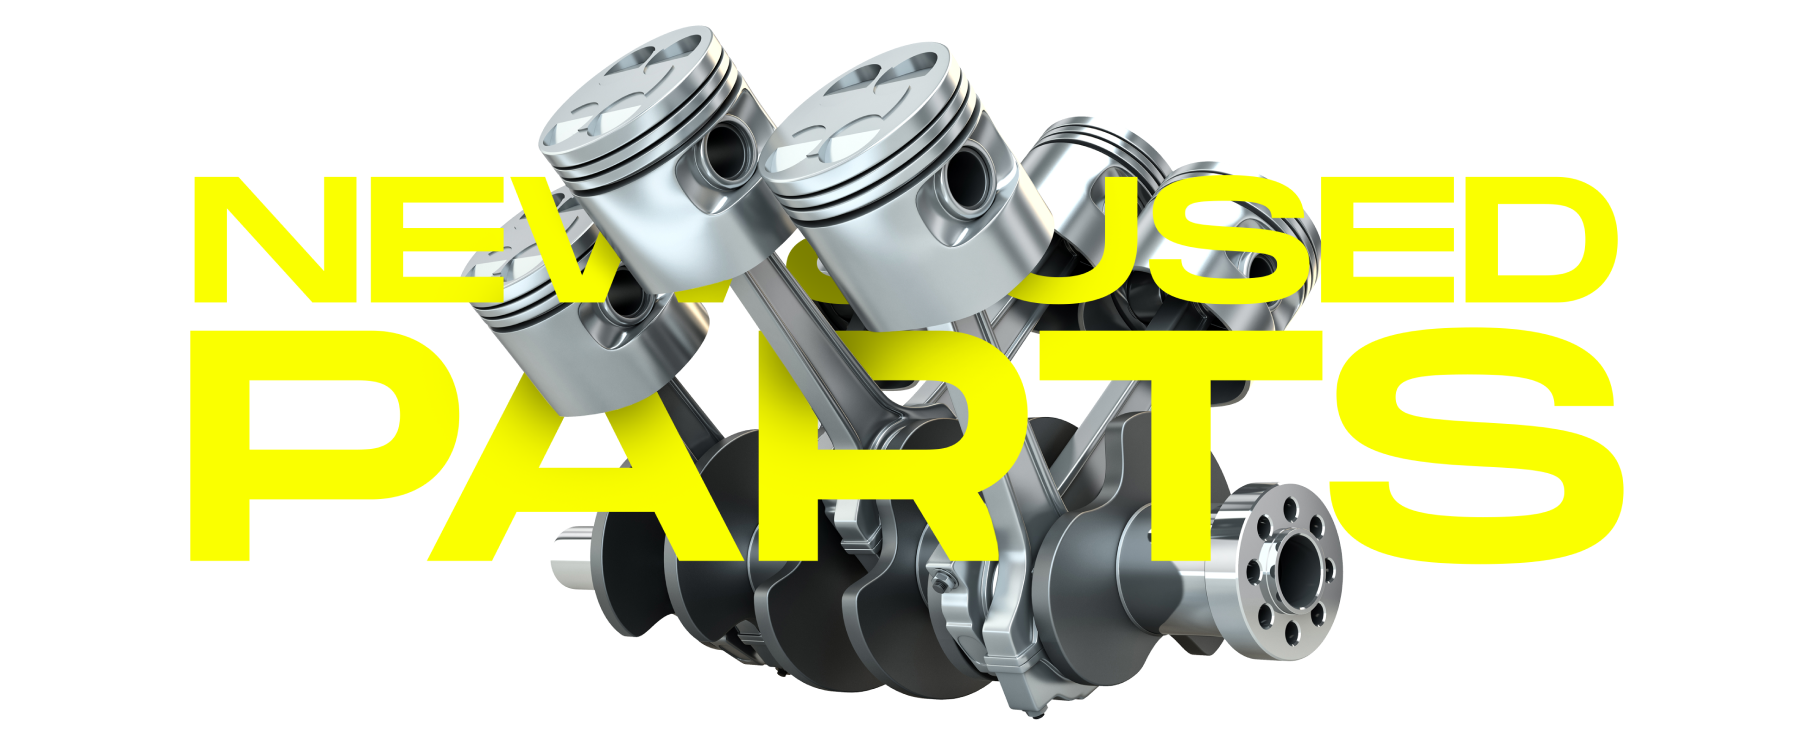
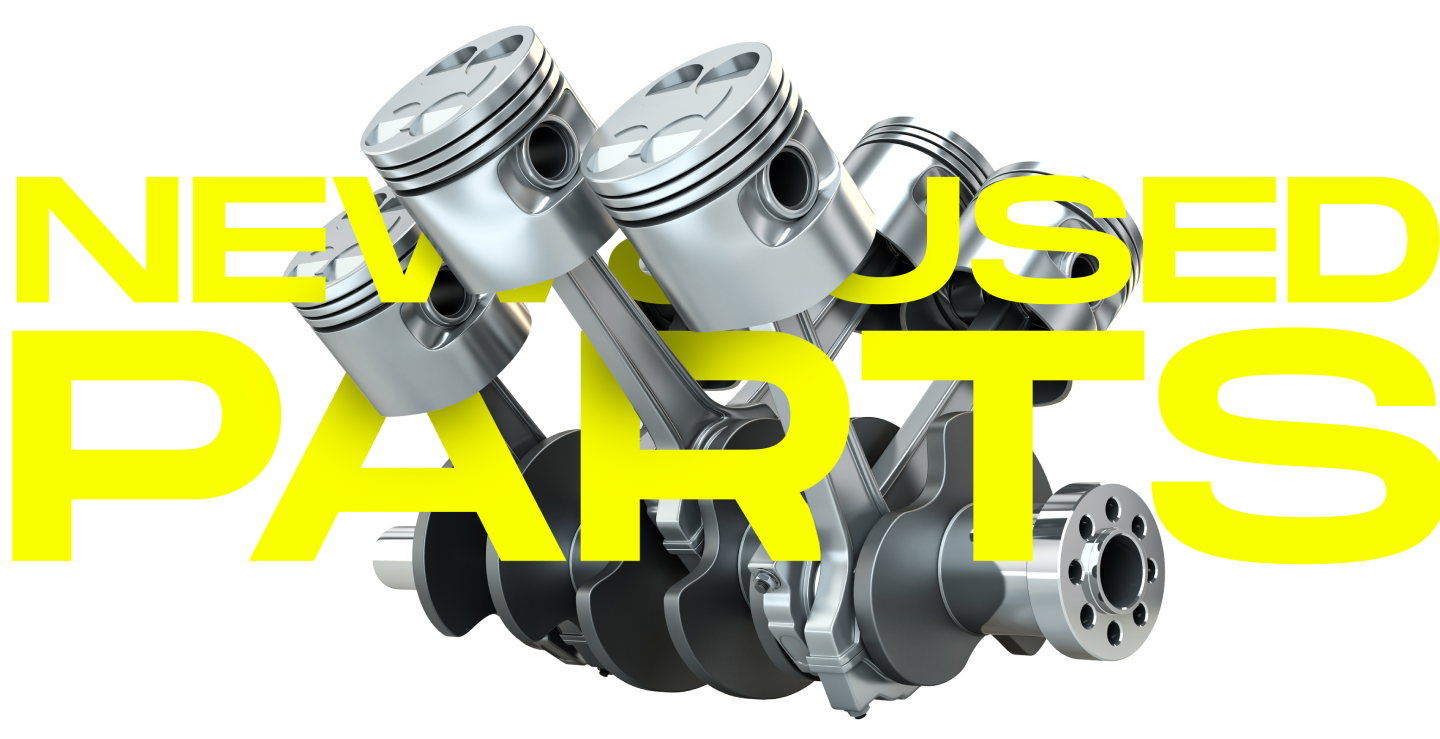
Add a new volvo-parts image that is cut correctly; Restrict it properly on the page.

diff --git a/assets/css/main.css b/assets/css/main.css
@@ -259,7 +259,8 @@ a {
   background-image: url(../images/bg.png);
   color: var(--color-white); }
   .top-screen__parts-image {
-    width: 100%; }
+    width: 100%;
+    max-width: var(--width-inner-mobile); }
   .top-screen__logo-stroke {
     margin-bottom: 2rem; }
 

diff --git a/assets/css/_layout.scss b/assets/css/_layout.scss
@@ -19,6 +19,7 @@
 
     &__parts-image {
         width: 100%;
+        max-width: var(--width-inner-mobile);
     }
 
     &__logo-stroke {
